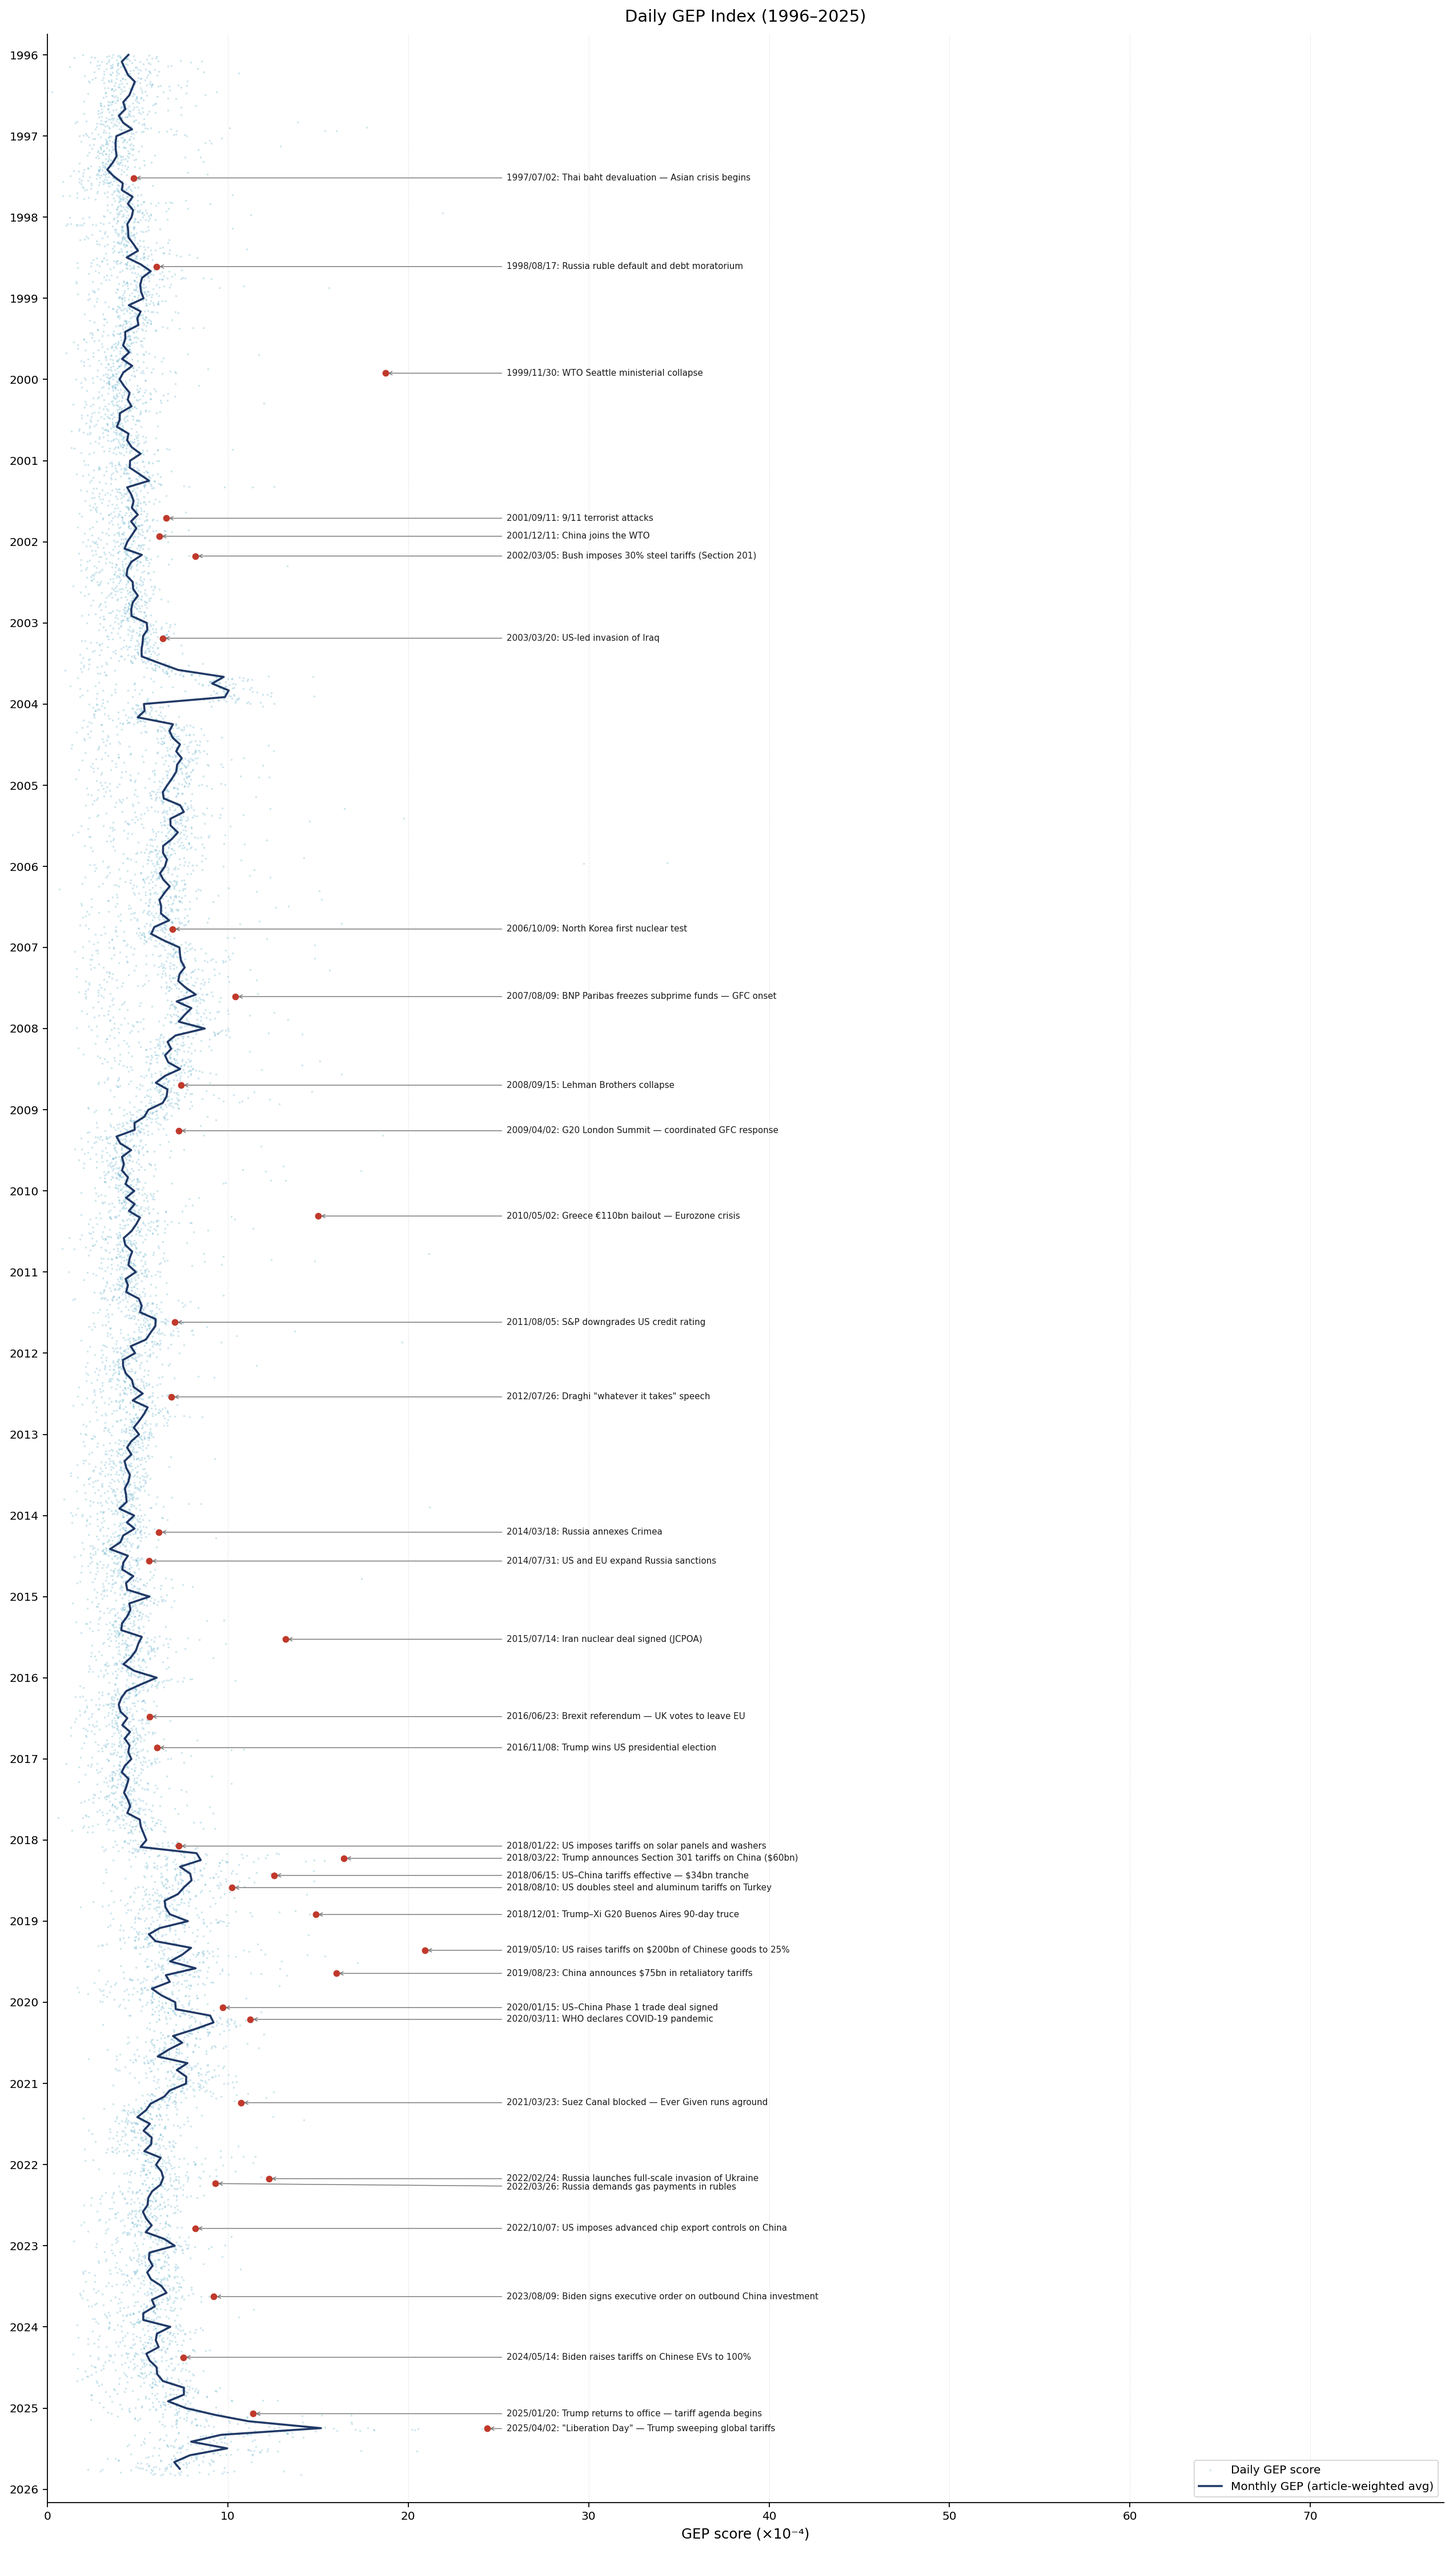
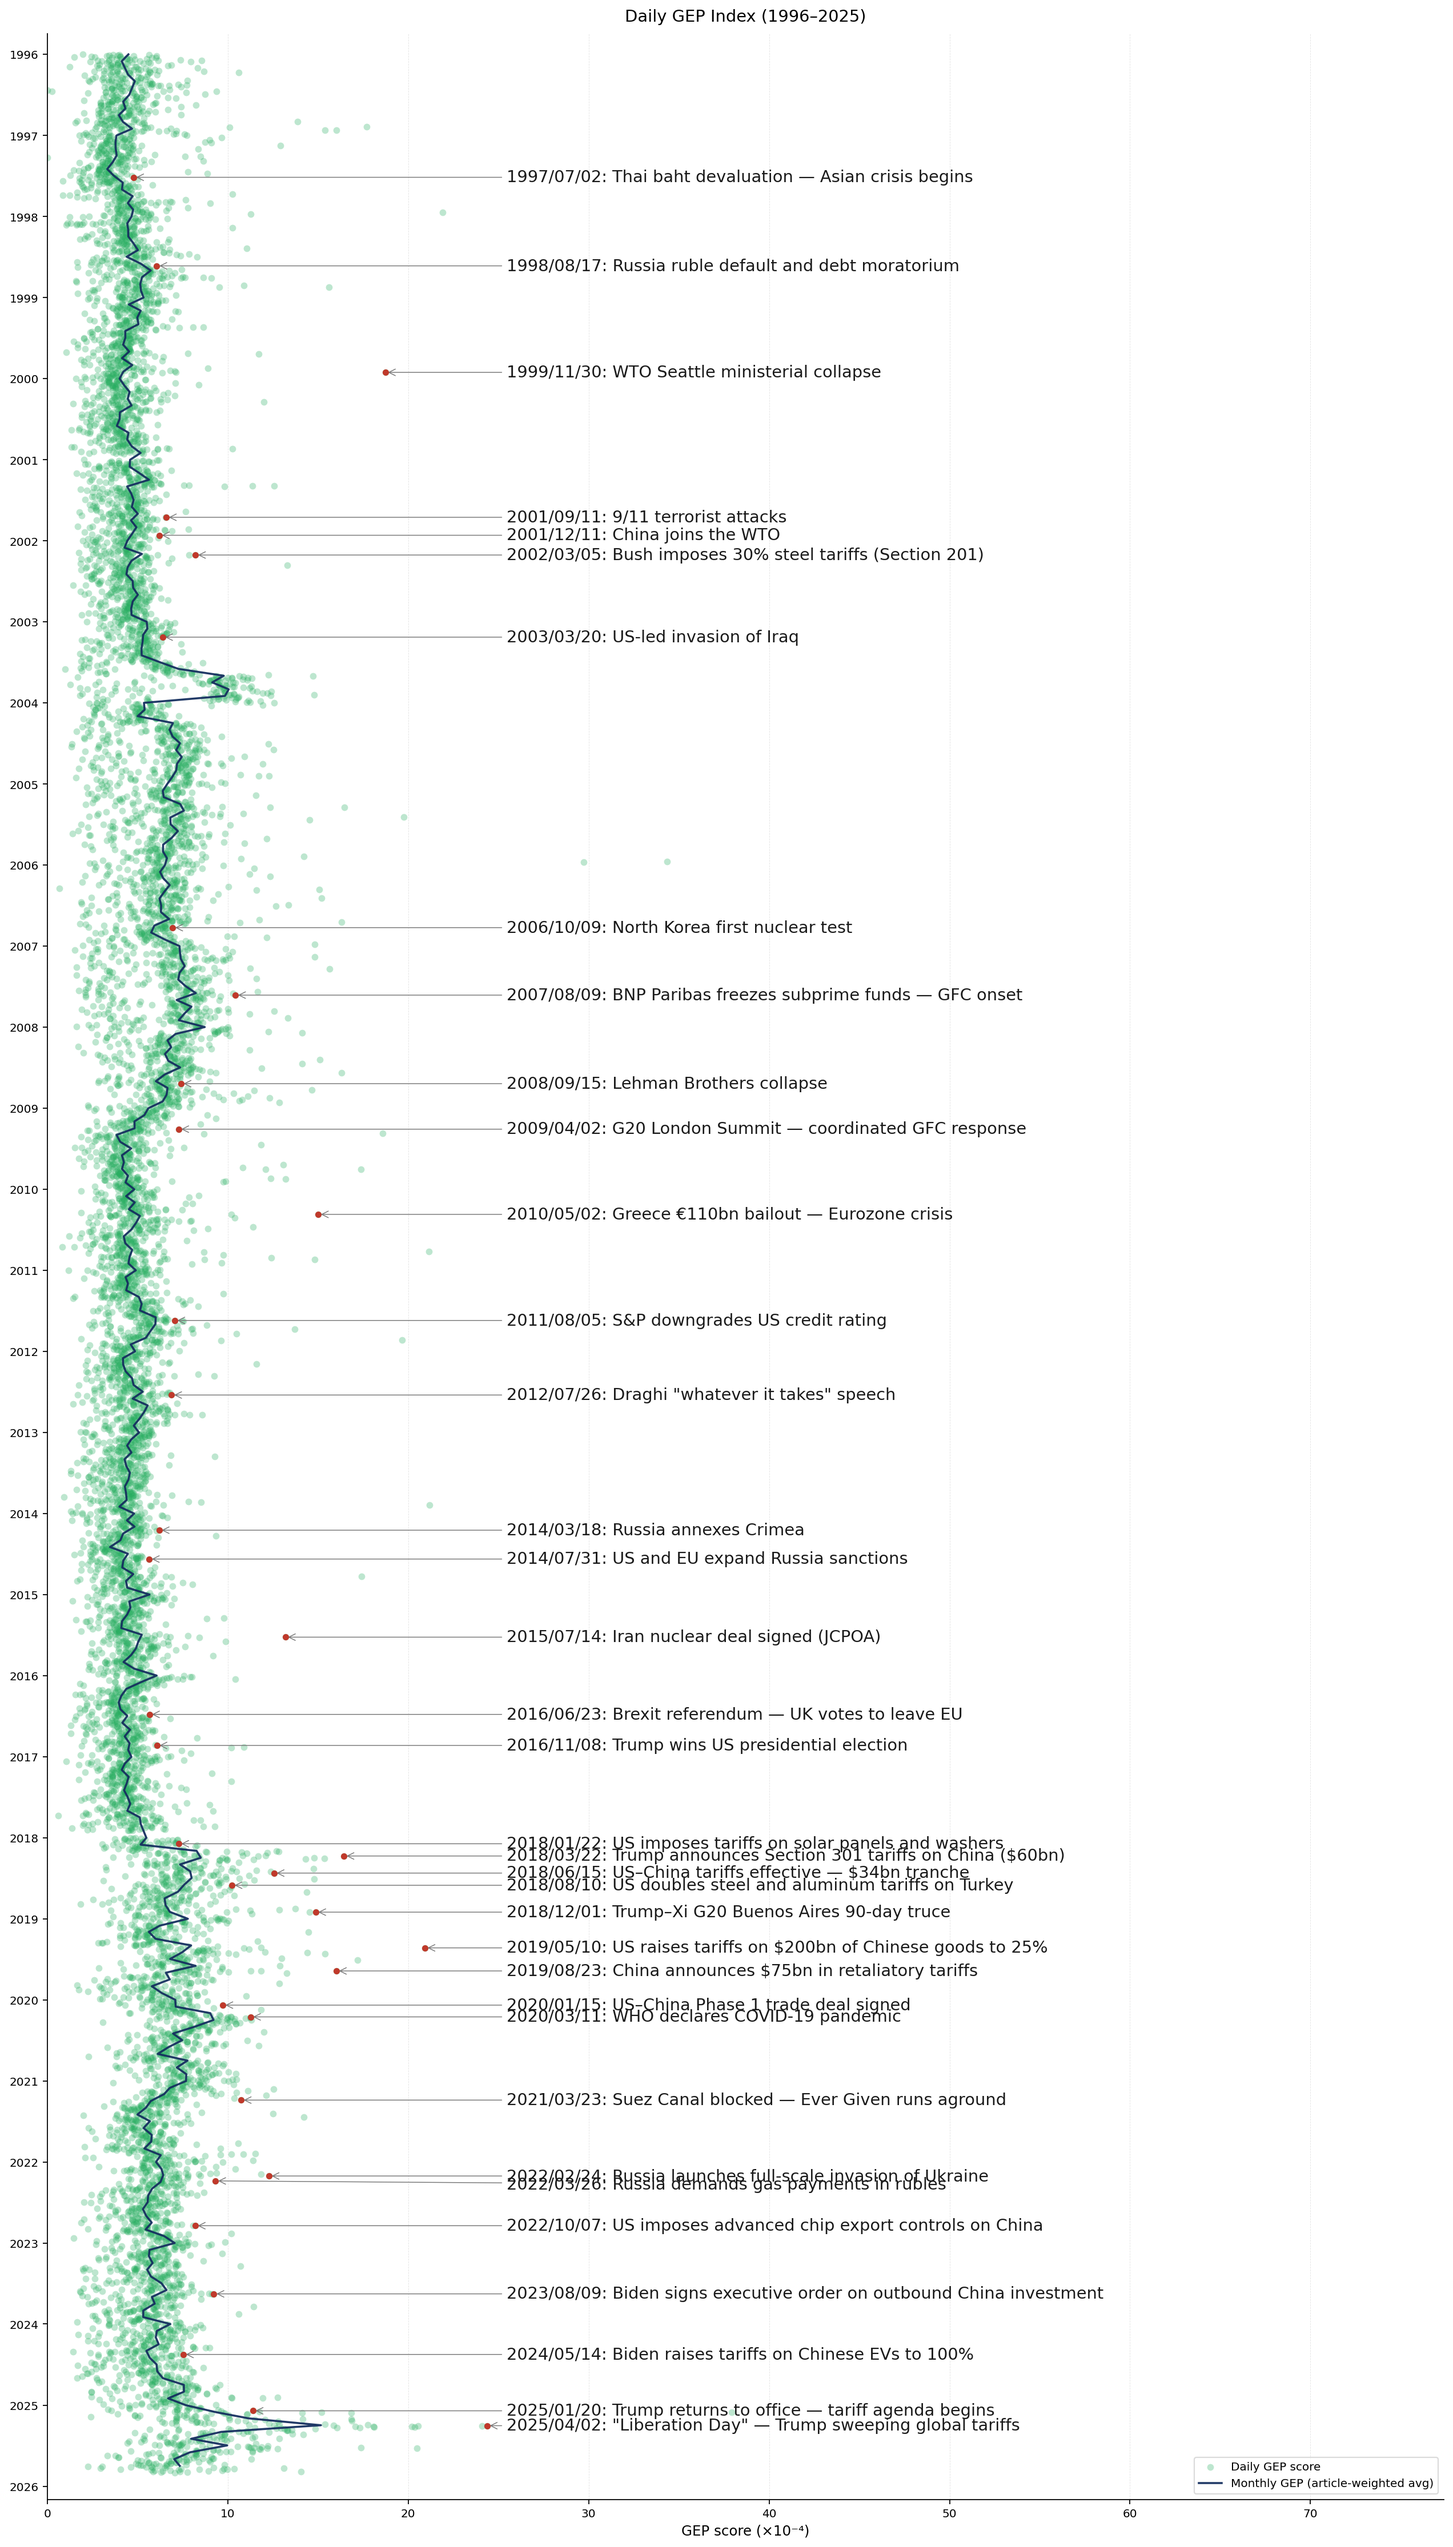
improved the plot

diff --git a/INDEX/index_8/plotting_index_8.py b/INDEX/index_8/plotting_index_8.py
@@ -184,7 +184,7 @@ fig, ax = plt.subplots(figsize=(16, 28))
 
 # Daily dots
 ax.scatter(daily_obs['score_scaled'], daily_obs['date'],
-           s=2.5, color='#5BADC8', alpha=0.30, linewidths=0, zorder=2,
+           s=28, color='#27AE60', alpha=0.30, linewidths=0, zorder=2,
            label='Daily GEP score')
 
 # Monthly line
@@ -196,14 +196,14 @@ ax.plot(monthly['GEP_monthly_scaled'], monthly['month'],
 for peak_date, peak_score, label, label_date in spread:
     # Red dot at the daily peak
     ax.scatter(peak_score, peak_date,
-               s=28, color='#C0392B', zorder=5, linewidths=0)
+               s=25, color='#C0392B', zorder=5, linewidths=0)
 
     # Arrow from label position → peak dot
     ax.annotate(
         label,
         xy       =(peak_score,  peak_date),    # arrowhead at peak
         xytext   =(X_LABEL,     label_date),   # text anchor
-        fontsize =6.8,
+        fontsize =13,
         ha       ='left',
         va       ='center',
         color    ='#1A1A1A',
